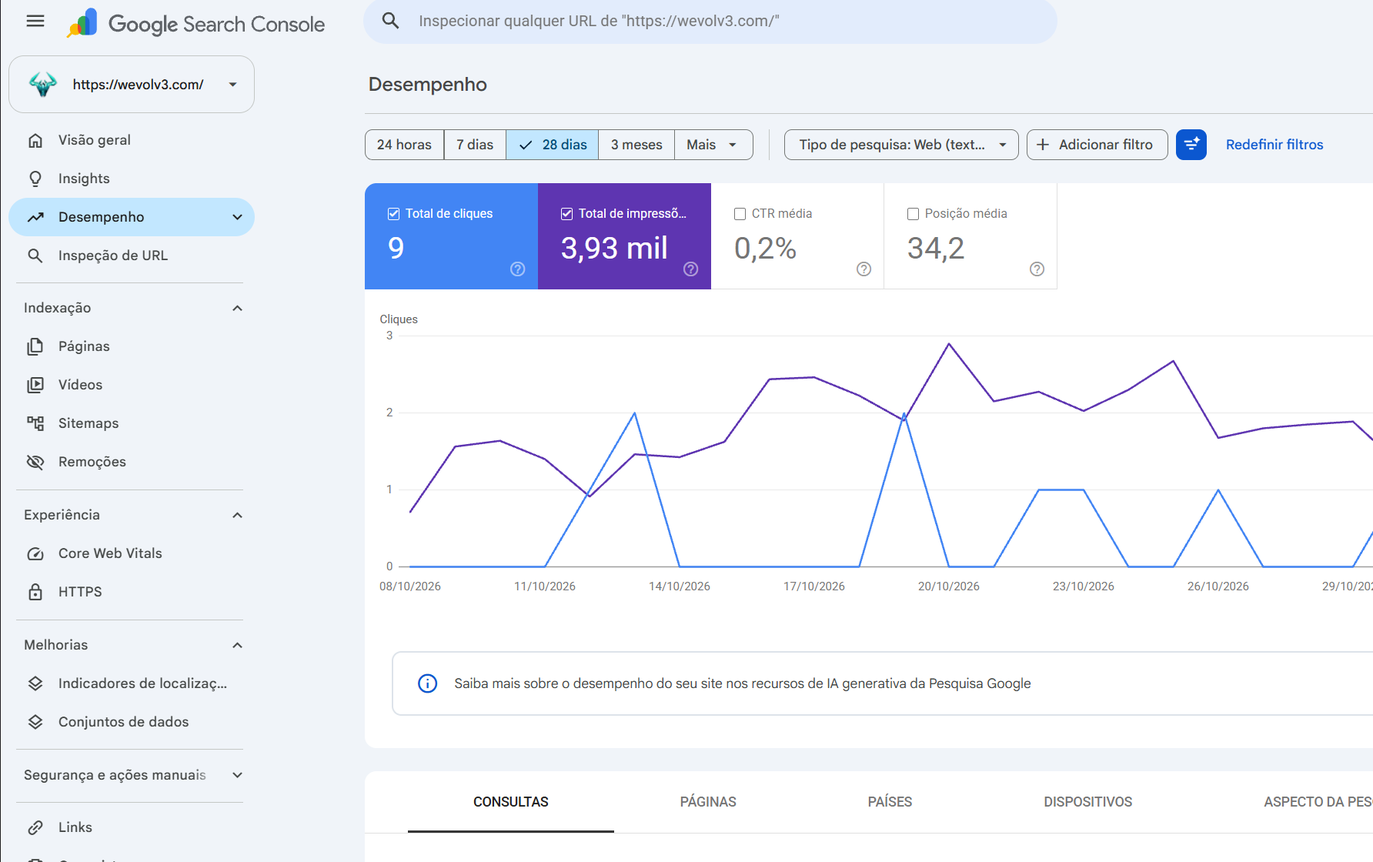
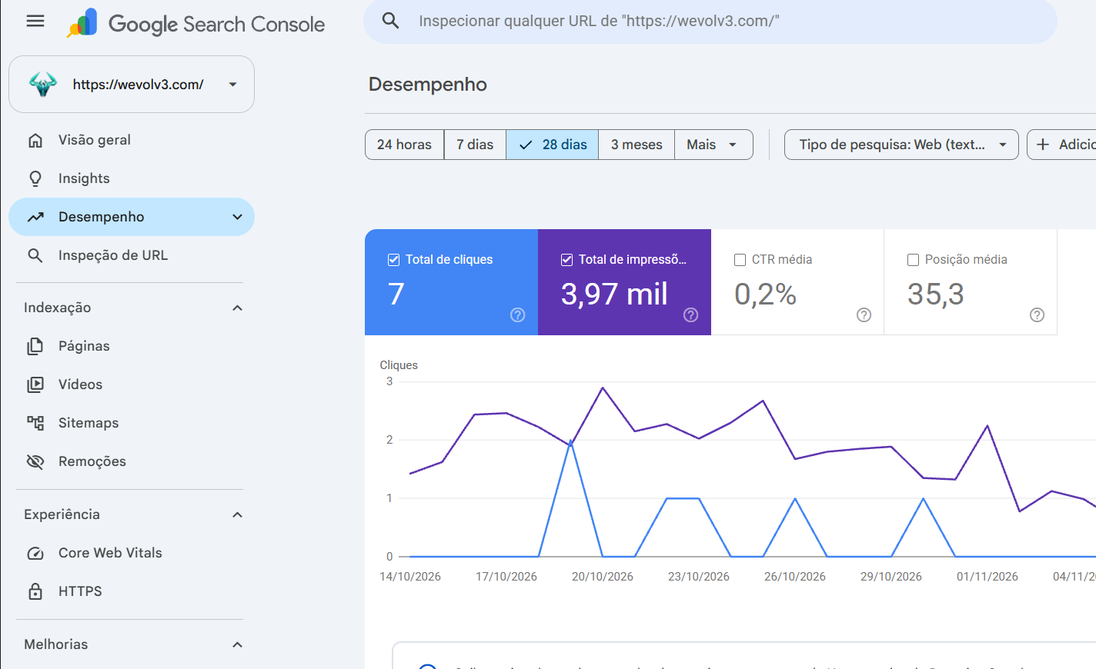
docs(seo): leitura de 12/11

diff --git a/docs/daily-report/raio-x-aquisicao.html b/docs/daily-report/raio-x-aquisicao.html
@@ -175,8 +175,9 @@
 <div class="wrap">
 
   <header>
-    <div class="eyebrow">Wevolv3 · 7 de novembro de 2026 · janela do Google 08/10 a 04/11 · as 5 telas de hoje</div>
+    <div class="eyebrow">Wevolv3 · 12 de novembro de 2026 · janela do Google 14/10 a 10/11 · as 5 telas de hoje</div>
     <h1>Raio-X de aquisição</h1>
+    <p class="lead"><b>12/11: a busca segue parada no total, e quem traz lead continua sendo o ChatGPT.</b> Depois de duas rodadas parciais, o Search Console voltou a ser lido por inteiro. Em 28 dias foram <b>7 cliques</b>, <b>3,97 mil aparições</b> e <b>posição média 35,3</b>. As buscas de decisão somam 380 aparições, 1 clique e posição 23,2, um pouco acima das 322 aparições de 04/11 (a contagem de hoje inclui buscas em francês e alemão sobre listagem em corretora, em que a Wevolv3 aparece em 1º lugar). Os sites que linkam seguem em 16, com 62 links. O índice tem 68 páginas dentro e 15 fora, com o relatório atualizado em 08/11. A página <code>/about</code>, que em 18/10 nem tinha sido rastreada, agora aparece na posição 6,1. No Analytics, sem os robôs, foram 211 sessões reais: o filtro de hoje tirou também Singapura, que mandava cerca de 6 sessões vazias por dia. Os leads seguem sendo 3 pessoas, duas vindas do ChatGPT e uma do acesso direto, e a busca orgânica tem 7 sessões e nenhum lead. O Bing e as três redes sociais seguem com zero clique. <b>Ações do dia, feitas e conferidas no ar:</b> o post novo <code>/blog/web3-kol-marketing</code>, publicado em 07/11, não recebia link de nenhuma página e estava em "Detectada, mas não indexada"; a página de serviço de KOL passou a apontar para ele, e a indexação foi pedida e aceita. A descrição da <code>/about</code>, que tinha 180 caracteres e cortava na busca, caiu para 157, e os títulos de compartilhamento foram alinhados.</p>
     <p class="lead"><b>07/11: a busca segue parada, mas o número de sites que linkam para a Wevolv3 subiu de 13 para 16.</b> Os três novos são sortlist.com e web3connect.com, onde a Wevolv3 tem perfil desde 28/09, e teapaw.org. É a primeira vez que esses dois perfis aparecem como link no Google. A janela do GSC andou um dia (08/10 a 04/11) e marca <b>9 cliques</b>, <b>3,93 mil aparições</b> e <b>posição média 34,2</b>, praticamente igual a ontem. As buscas de decisão ficaram em 37, com 322 aparições, 1 clique e posição 25,4. O índice segue em 70 páginas, com o relatório parado em 22/10. No Analytics, sem os robôs, foram 247 sessões em 28 dias e os leads continuam sendo 3 pessoas: duas pelo acesso direto e uma vinda do ChatGPT, que segue sendo o único canal com lead por sessão. O Bing mostrou pela primeira vez uma citação da Wevolv3 numa resposta do Copilot (relatório novo "AI Performance"). <b>Ação do dia:</b> nenhuma página forte tinha uma frase que pedisse link interno sem forçar, então a rodada preparou o perfil do TechBehemoths, que está com nota 47 ("Average") porque não tem review, tem só 3 cases e a descrição não nomeia os serviços. O rascunho com o parágrafo novo, dois cases e o pedido de review está em <code>docs/drafts/techbehemoths-perfil-2026-11-07.md</code> e espera o Rômulo aplicar.</p>
     <p class="lead"><b>06/11: a busca segue parada, e o Search Console voltou a ser lido.</b> A conta diablov2021 está de novo no Chrome da extensão. A janela do GSC andou um dia (07/10 a 03/11) e marca <b>9 cliques</b>, <b>3,95 mil aparições</b> (eram 3,98 mil) e <b>posição média 34,1</b> (era 33,9), em 266 buscas. As consultas de decisão também não se mexeram: 33 consultas, 316 aparições, 1 clique e posição 25,3. Os domínios que linkam seguem em 13, com 63 links. O índice tem 70 páginas dentro e 14 fora, mas o relatório de Páginas continua parado em 22/10, com 15 dias. O link interno de 22/10 deu certo: o post de custo de listagem foi de 90 aparições na posição 10,1 para <b>294 na posição 6,3</b>, com 1 clique, e é a página que mais subiu na quinzena. O Analytics mostra 243 sessões reais em 28 dias (o robô de Boston, com 12 sessões vazias por dia, segue fora da conta) e os mesmos 3 leads; o do ChatGPT segue sendo o único que não veio pelo Direct. O Bing está igual: 0 cliques, 22 aparições em 3 meses e 4 domínios. As 3 redes sociais seguem com zero clique na busca do Google. <b>Ação do dia, feita e conferida no ar:</b> o post sobre CRM para Web3 (<code>/blog/web-three-crm</code>, posição 19,2) não recebia link de nenhum outro post. O post de ferramentas de marketing, que é o de mais aparições do blog, passou a apontar para ele no trecho "targeting and segmentation". A indexação foi pedida e aceita para esse post e para o de atribuição, que tinha ficado pendente ontem.</p>
     <p class="lead"><b>05/11: leitura parcial. O Search Console não foi lido, e por isso não dá para dizer se a busca andou.</b> A conta diablov2021 não está mais logada no Chrome da extensão: o seletor mostra só vadevox, romulololico e criptovox, e o GSC responde "você não tem acesso". O plano B, que é a captura de janela pelo perfil "Profile 2", precisava de uma aprovação que ninguém podia dar nesta rodada automática. <b>As telas do Search Console e do Analytics abaixo são de 04/11, e a do Bing também.</b> O que foi lido mostra o mesmo quadro de ontem. O Analytics tem 238 sessões reais em 28 dias (eram 239) e os mesmos 3 leads; o do ChatGPT segue sendo o único que não veio pelo Direct. O Bing está igual: 0 cliques, 23 aparições em 3 meses, 4 domínios e 5 páginas que linkam. O PostHog viu 3 visitas em 04/11, uma delas vinda do LinkedIn. Não houve post novo em novembro e não há post órfão. <b>Ação do dia, feita e conferida no ar:</b> o post de ferramentas de atribuição (<code>/blog/web-three-attribution-tool</code>, posição 13,7 com 90 aparições na leitura de ontem) não recebia link de nenhum outro post. O post de ferramentas de marketing, que é a página com mais aparições do blog, passou a apontar para ele no trecho "the off-chain to on-chain attribution gap". O pedido de indexação ficou pendente, porque depende do mesmo login no Search Console. A reavaliação do link de 22/10, que vencia hoje, também depende do GSC e passa para a próxima rodada.</p>
@@ -573,7 +574,7 @@
     </div>
 
     <figure>
-      <img src="/_blob/a748d18df4bbd10063aeced96da5f29a" alt="Search Console, relatório Desempenho em 28 dias, com o placar de 6 cliques, 4,34 mil impressões, CTR 0,1% e posição 17,4">
+      <img src="/_blob/9b7a2d320e2f6d070ab94a1918ef3463" alt="Search Console, relatório Desempenho em 28 dias, com o placar de 6 cliques, 4,34 mil impressões, CTR 0,1% e posição 17,4">
       <figcaption><b>Onde olhar:</b> os quatro cartões no topo são o placar do período, e hoje
       marcam <b>8</b> cliques, <b>2,92 mil</b> impressões, CTR 0,3% e posição <b>18,9</b> (captura de 07/10; eram 3,12 mil e 18,3 em 06/10). No
       gráfico, a linha roxa (impressões) é a notícia ruim da semana: depois do pico de meados de setembro
@@ -660,7 +661,7 @@
     existe na busca.</p>
 
     <figure>
-      <img src="/_blob/26e3e5ceaaea5f593a3d2985bf5757b3" alt="Search Console, tela de indexação de páginas, mostrando 63 páginas indexadas e 18 não indexadas">
+      <img src="/_blob/108ece8b8d92c8cf3280f0af2129b837" alt="Search Console, tela de indexação de páginas, mostrando 63 páginas indexadas e 18 não indexadas">
       <figcaption><b>Onde olhar:</b> os dois cartões no topo, <b>18 não indexadas</b> (cinza) e
       <b>63 indexadas</b> (verde), e o gráfico de barras logo abaixo. Cada barra é um dia: a parte
       verde é o que está no índice, a cinza é o que ficou de fora. Repare no degrau do começo de setembro: a parte cinza encolhe de uma vez e fica baixa desde então. Captura de 7 de outubro: <b>63 dentro e 21 fora</b> (eram 18). Os 3 a mais batem com a limpeza de 06/10 (<code>/linktree/</code> em noindex, post da Cellframe em 301) e com posts novos ainda sem rastreio. <b>08/10</b> (recapturada): igual, 63 e 21, relatório atualizado em 03/10. <b>09/10</b> (recapturada): igual, 63 e 21; o relatório segue com data de 03/10 (6 dias sem atualizar).</figcaption>
@@ -691,7 +692,7 @@
     quem já tem reputação.</p>
 
     <figure>
-      <img src="/_blob/825b07d90975c37811fbc53afc23399f" alt="Search Console, relatório Links, com 51 links externos e 407 links internos">
+      <img src="/_blob/d42bf420ea455f9cb6f61e9948498c87" alt="Search Console, relatório Links, com 51 links externos e 407 links internos">
       <figcaption><b>Onde olhar:</b> o quadro <b>Principais sites com links</b>, dentro da coluna
       <b>Links externos</b> (total de 49 em 06/10). Atenção: esse quadro mostra <b>só os 5 primeiros</b> (goodfirms 27,
       dev.to 5, wekolnect 5, coinmarketcap 2, edverise 2), que somam 41 dos 49 links. A lista inteira, com os 13
@@ -804,7 +805,7 @@
     </ul>
 
     <figure>
-      <img src="/_blob/4d9468e79ac9921c8d9ae3fac1c320b3" alt="Google Analytics, relatório Aquisição de tráfego, sessões por canal nos últimos 28 dias">
+      <img src="/_blob/6ef09448c78b573cbbeb5c28a531f0f4" alt="Google Analytics, relatório Aquisição de tráfego, sessões por canal nos últimos 28 dias">
       <figcaption><b>Onde olhar:</b> o gráfico mostra cada canal como uma linha ao longo dos 28
       dias, e a tabela embaixo dá o placar: a tela mostra o número bruto, <b>254</b> sessões (02/09 a 29/09), com Direct em 186 (73,2%) e Unassigned em 13, porque inclui os dois dias de robô (28 e 29/09). Sem esses dias, pela API, são <b>189</b> sessões, Direct 137 (72,5%) e Unassigned 2, que é o número que vale. As colunas <b>Sessões engajadas</b> e <b>Taxa de
       engajamento</b> separam visita boa de visita que bate e sai. Captura de 6 de outubro: a tela mostra o bruto, com os dias de robô (28 e 29/09) e o pico de 01/10 vindo de Council Bluffs (data center do Google, 23 sessões Direct sem engajamento). Pela API, sem esses dias e sem cidades de data center, são <b>188</b> sessões (08/09 a 05/10), Direct 134 (71,3%), Organic Search 17 com <b>5 conversões</b>, a primeira vez que a busca orgânica converte. <b>07/10</b> (recapturada): mesma regra pela API, <b>204</b> sessões (09/09 a 06/10), Direct 143 (70,1%), Organic Search 17 (8,3%, 5 conversões), Organic Social 32 (15,7%), Unassigned 5 (2,5%), AI Assistant 3 sem conversão; bruto 328. <b>08/10</b> (recapturada): <b>201</b> sessões (10/09 a 07/10), Direct 144 (71,6%), Organic Social 29 (14,4%), Organic Search 17 (8,5%, 5 conversões), Referral 4, Unassigned 4 (2,0%), AI Assistant 3 sem conversão; bruto 331. <b>09/10</b> (recapturada): <b>186</b> sessões (11/09 a 08/10), Direct 132 (71,0%), Organic Social 30 (16,1%), Organic Search 14 (7,5%, 5 conversões), Referral 4, Unassigned 3 (1,6%), AI Assistant 3 sem conversão; bruto 255.</figcaption>
@@ -888,7 +889,7 @@
     diferença costuma dizer algo.</p>
 
     <figure>
-      <img src="/_blob/e0f7f998c1d592b5f8e01f6962c43c1b" alt="Bing Webmaster Tools, relatório Backlinks, com 3 domínios, 3 páginas e 3 âncoras">
+      <img src="/_blob/41d32bb1566bfe7d7a198737ce6b7ea8" alt="Bing Webmaster Tools, relatório Backlinks, com 3 domínios, 3 páginas e 3 âncoras">
       <figcaption><b>Onde olhar:</b> os três cartões no topo, domínios / páginas / âncoras, hoje
       em <b>4 / 4 / 3</b> (07/10), e a lista <b>Source domain</b> logo abaixo, com os sites que o Bing
       enxerga apontando para a Wevolv3: cbinsights, findglocal, x.com e, desde a leitura de 07/10, <b>linkedin.com</b> (o dev.to saiu em 19/09). No menu da
@@ -1412,7 +1413,10 @@
     // 05/11: GSC não lido (a conta diablov2021 saiu do Chrome da extensão e a captura de janela precisava de aprovação).
     ["05/11", null, null, null, null, null, 238, 4.20, 6.72],
     ["06/11", 3950,  9, 34.1, 70, 14, 243, 3.29, 6.17],
-    ["07/11", 3930,  9, 34.2, 70, 14, 247, 3.24, 6.48]
+    ["07/11", 3930,  9, 34.2, 70, 14, 247, 3.24, 6.48],
+    ["10/11", null, null, null, null, null, 250, 2.80, 9.20],
+    ["11/11", 3960,  9, 35.3, 68, 15, null, null, null],
+    ["12/11", 3970,  7, 35.3, 68, 15, 211, 3.32, 12.80]
   ];
 
   var COL = { impr:1, cliq:2, pos:3, idx:4, nidx:5, sess:6, search:7, social:8 };
@@ -1501,7 +1505,12 @@
     ["03/11", 17, 15],
     ["04/11", 3, 3],
     ["05/11", 3, 3],
-    ["06/11", 6, 6]
+    ["06/11", 5, 5],
+    ["07/11", 2, 2],
+    ["08/11", 7, 6],
+    ["09/11", 2, 2],
+    ["10/11", 6, 6],
+    ["11/11", 9, 9]
   ];
 
   function paint(){

diff --git a/docs/daily-report/raio-x-template.html b/docs/daily-report/raio-x-template.html
@@ -175,8 +175,9 @@
 <div class="wrap">
 
   <header>
-    <div class="eyebrow">Wevolv3 · 7 de novembro de 2026 · janela do Google 08/10 a 04/11 · as 5 telas de hoje</div>
+    <div class="eyebrow">Wevolv3 · 12 de novembro de 2026 · janela do Google 14/10 a 10/11 · as 5 telas de hoje</div>
     <h1>Raio-X de aquisição</h1>
+    <p class="lead"><b>12/11: a busca segue parada no total, e quem traz lead continua sendo o ChatGPT.</b> Depois de duas rodadas parciais, o Search Console voltou a ser lido por inteiro. Em 28 dias foram <b>7 cliques</b>, <b>3,97 mil aparições</b> e <b>posição média 35,3</b>. As buscas de decisão somam 380 aparições, 1 clique e posição 23,2, um pouco acima das 322 aparições de 04/11 (a contagem de hoje inclui buscas em francês e alemão sobre listagem em corretora, em que a Wevolv3 aparece em 1º lugar). Os sites que linkam seguem em 16, com 62 links. O índice tem 68 páginas dentro e 15 fora, com o relatório atualizado em 08/11. A página <code>/about</code>, que em 18/10 nem tinha sido rastreada, agora aparece na posição 6,1. No Analytics, sem os robôs, foram 211 sessões reais: o filtro de hoje tirou também Singapura, que mandava cerca de 6 sessões vazias por dia. Os leads seguem sendo 3 pessoas, duas vindas do ChatGPT e uma do acesso direto, e a busca orgânica tem 7 sessões e nenhum lead. O Bing e as três redes sociais seguem com zero clique. <b>Ações do dia, feitas e conferidas no ar:</b> o post novo <code>/blog/web3-kol-marketing</code>, publicado em 07/11, não recebia link de nenhuma página e estava em "Detectada, mas não indexada"; a página de serviço de KOL passou a apontar para ele, e a indexação foi pedida e aceita. A descrição da <code>/about</code>, que tinha 180 caracteres e cortava na busca, caiu para 157, e os títulos de compartilhamento foram alinhados.</p>
     <p class="lead"><b>07/11: a busca segue parada, mas o número de sites que linkam para a Wevolv3 subiu de 13 para 16.</b> Os três novos são sortlist.com e web3connect.com, onde a Wevolv3 tem perfil desde 28/09, e teapaw.org. É a primeira vez que esses dois perfis aparecem como link no Google. A janela do GSC andou um dia (08/10 a 04/11) e marca <b>9 cliques</b>, <b>3,93 mil aparições</b> e <b>posição média 34,2</b>, praticamente igual a ontem. As buscas de decisão ficaram em 37, com 322 aparições, 1 clique e posição 25,4. O índice segue em 70 páginas, com o relatório parado em 22/10. No Analytics, sem os robôs, foram 247 sessões em 28 dias e os leads continuam sendo 3 pessoas: duas pelo acesso direto e uma vinda do ChatGPT, que segue sendo o único canal com lead por sessão. O Bing mostrou pela primeira vez uma citação da Wevolv3 numa resposta do Copilot (relatório novo "AI Performance"). <b>Ação do dia:</b> nenhuma página forte tinha uma frase que pedisse link interno sem forçar, então a rodada preparou o perfil do TechBehemoths, que está com nota 47 ("Average") porque não tem review, tem só 3 cases e a descrição não nomeia os serviços. O rascunho com o parágrafo novo, dois cases e o pedido de review está em <code>docs/drafts/techbehemoths-perfil-2026-11-07.md</code> e espera o Rômulo aplicar.</p>
     <p class="lead"><b>06/11: a busca segue parada, e o Search Console voltou a ser lido.</b> A conta diablov2021 está de novo no Chrome da extensão. A janela do GSC andou um dia (07/10 a 03/11) e marca <b>9 cliques</b>, <b>3,95 mil aparições</b> (eram 3,98 mil) e <b>posição média 34,1</b> (era 33,9), em 266 buscas. As consultas de decisão também não se mexeram: 33 consultas, 316 aparições, 1 clique e posição 25,3. Os domínios que linkam seguem em 13, com 63 links. O índice tem 70 páginas dentro e 14 fora, mas o relatório de Páginas continua parado em 22/10, com 15 dias. O link interno de 22/10 deu certo: o post de custo de listagem foi de 90 aparições na posição 10,1 para <b>294 na posição 6,3</b>, com 1 clique, e é a página que mais subiu na quinzena. O Analytics mostra 243 sessões reais em 28 dias (o robô de Boston, com 12 sessões vazias por dia, segue fora da conta) e os mesmos 3 leads; o do ChatGPT segue sendo o único que não veio pelo Direct. O Bing está igual: 0 cliques, 22 aparições em 3 meses e 4 domínios. As 3 redes sociais seguem com zero clique na busca do Google. <b>Ação do dia, feita e conferida no ar:</b> o post sobre CRM para Web3 (<code>/blog/web-three-crm</code>, posição 19,2) não recebia link de nenhum outro post. O post de ferramentas de marketing, que é o de mais aparições do blog, passou a apontar para ele no trecho "targeting and segmentation". A indexação foi pedida e aceita para esse post e para o de atribuição, que tinha ficado pendente ontem.</p>
     <p class="lead"><b>05/11: leitura parcial. O Search Console não foi lido, e por isso não dá para dizer se a busca andou.</b> A conta diablov2021 não está mais logada no Chrome da extensão: o seletor mostra só vadevox, romulololico e criptovox, e o GSC responde "você não tem acesso". O plano B, que é a captura de janela pelo perfil "Profile 2", precisava de uma aprovação que ninguém podia dar nesta rodada automática. <b>As telas do Search Console e do Analytics abaixo são de 04/11, e a do Bing também.</b> O que foi lido mostra o mesmo quadro de ontem. O Analytics tem 238 sessões reais em 28 dias (eram 239) e os mesmos 3 leads; o do ChatGPT segue sendo o único que não veio pelo Direct. O Bing está igual: 0 cliques, 23 aparições em 3 meses, 4 domínios e 5 páginas que linkam. O PostHog viu 3 visitas em 04/11, uma delas vinda do LinkedIn. Não houve post novo em novembro e não há post órfão. <b>Ação do dia, feita e conferida no ar:</b> o post de ferramentas de atribuição (<code>/blog/web-three-attribution-tool</code>, posição 13,7 com 90 aparições na leitura de ontem) não recebia link de nenhum outro post. O post de ferramentas de marketing, que é a página com mais aparições do blog, passou a apontar para ele no trecho "the off-chain to on-chain attribution gap". O pedido de indexação ficou pendente, porque depende do mesmo login no Search Console. A reavaliação do link de 22/10, que vencia hoje, também depende do GSC e passa para a próxima rodada.</p>
@@ -1412,7 +1413,10 @@
     // 05/11: GSC não lido (a conta diablov2021 saiu do Chrome da extensão e a captura de janela precisava de aprovação).
     ["05/11", null, null, null, null, null, 238, 4.20, 6.72],
     ["06/11", 3950,  9, 34.1, 70, 14, 243, 3.29, 6.17],
-    ["07/11", 3930,  9, 34.2, 70, 14, 247, 3.24, 6.48]
+    ["07/11", 3930,  9, 34.2, 70, 14, 247, 3.24, 6.48],
+    ["10/11", null, null, null, null, null, 250, 2.80, 9.20],
+    ["11/11", 3960,  9, 35.3, 68, 15, null, null, null],
+    ["12/11", 3970,  7, 35.3, 68, 15, 211, 3.32, 12.80]
   ];
 
   var COL = { impr:1, cliq:2, pos:3, idx:4, nidx:5, sess:6, search:7, social:8 };
@@ -1501,7 +1505,12 @@
     ["03/11", 17, 15],
     ["04/11", 3, 3],
     ["05/11", 3, 3],
-    ["06/11", 6, 6]
+    ["06/11", 5, 5],
+    ["07/11", 2, 2],
+    ["08/11", 7, 6],
+    ["09/11", 2, 2],
+    ["10/11", 6, 6],
+    ["11/11", 9, 9]
   ];
 
   function paint(){

diff --git a/docs/SEO_DAILY_LOG.md b/docs/SEO_DAILY_LOG.md
@@ -811,3 +811,4 @@ enviadas em GIF.
 | 2026-11-07 | 9 | 3.930 | 0,2% | 34,2 | 70 | 14 | 247 | 84,62% | 6,48% | 3,24% | **Busca parada; links de fora subiram: 16 dominios (eram 13), com sortlist.com e web3connect.com (perfis de 28/09) e teapaw.org aparecendo pela 1a vez no GSC.** Sabado, sem paineis semanais nem Share of Answer. Extensao: Browser 1 `2707213e` (unico pareado), conta diablov2021 via `authuser=`, caiu em u/5. **KPI da semana:** Decisao 37 consultas / 322 impr. / 1 cliq. / pos. 25,4 (06/11: 33 / 316 / 1 / 25,3; 7 dias antes sem leitura); **Dominios que linkam 16** pelo "Mais", 62 links (eram 13 / 63): goodfirms 27, dev.to 11 (era 16), wekolnect 5, linkedin 3, edverise, hashnode.dev, medium, x.com 2; coinmarketcap, crunchbase, cryptodaily, fixnhour.com, sortlist.com, teapaw.org, web3.career, web3connect.com 1. **GSC (08/10-04/11):** 9 cliques, 3,93 mil impr., pos. 34,2, 267 consultas. Consultas: "token generation event" 169 (48,5), "token launch marketing" 111 (35,0), "whats tge" 109 (9,7, zero clique, em acompanhamento desde 03/11), "kol meaning crypto" 104 (26,6), "defi marketing strategy" 92 (43,2), "web3 quests marketing" 90 (39,3), "what is a kol in crypto" 85 (26,1), "web3 kol marketing" 79, "web3 go to market strategy" 77; unico clique "crypto exchange listing fee" 1/4 (17,8); "growth pod vs agency" 38 (3,4, aguarda decisao). Nenhum gatilho novo. **Paginas (28d):** galxe 2 / 154 / 8,8; home 2 / 71 / 6,6; KOL 1 / 651 / 29,2; listing-cost 1 / 309 / 6,4; attribution-tool 1 / 88 / 13,9; best-firms 1 / 60 / 12,6; /contact 1 / 12 / 5,6; web-three-marketing-tools 0 / 1.013 / 53,0; tge 0 / 507 / 31,7; growth-partner 0 / 134 / 17,5; /crypto-exchange-marketing 0 / 43 / 14,8; web-three-crm 0 / 24 / 19,2; kol-pricing-benchmark 0 / 23 / 13,6. **Indexacao 70/14**, "Ultima atualizacao: 22/10/2026" (16 dias, desatualizado). **Ritmo do blog:** 0 posts em novembro. **Orfaos: 0 / 0** (nenhum post nos ultimos 30 dias). **GA4 API (10/10-06/11), sem 20261013 e sem cidades de data center (lista de 03/11 + Boston): 247 sessoes**: Direct 209 (84,6%, engaj. 7,2%, 29s, 7 ev.), Organic Social 16 (6,5%, 31%), Referral 10 (4,0%, 20%), Organic Search 8 (3,2%, 75%, 235s, 2 ev.), Unassigned 3 (1,2%, engaj. 0), AI Assistant 1 (100%, 4 ev.). Boston segue 12 sessoes/dia (fora); 06/11 bruto teve Shenzhen e Zhongshan (Unassigned e Referral, engaj. 0, cara de robo, mantidos). **Leads (form, sem Sorocaba): 3 pessoas**, as mesmas: Direct 2 (12/10 e 19/10, home), AI Assistant 1 (02/11, /contact.html). Intencao sem form: Prayagraj 12/10 (Direct), Meguro 19/10 e Minato 21/10 (Organic Search, telegram_click), Indore 27/10 (Direct). Leads por sessao: IA 1/1, Direct 2/209 = 1%, busca 0/8, social 0/16. **IA paga, busca nao.** **Watch Unassigned OK** (1,2%; 2 sessoes em 06/11 e 1 em 03/11, robos chineses). Direct 84,6% vs baseline 74,3%: robos nao filtrados, nao confirma a hipotese. **Bing:** 0 cliques / 22 impr. (3 meses); backlinks 4 dominios / 5 paginas / 4 ancoras, igual; **novo: relatorio "AI Performance" (beta), 1 citacao em Copilot e parceiros em 3 meses (por volta de 21/10), sem consulta listada.** **Platform Properties:** Instagram 0, TikTok 0, X 0 (anteriormente 0). **PostHog filtrado:** 06/11 6 pv / 6 sessoes (Morganton e Atlanta via accounts.google.com, Singapura, Xangai, 2 sem cidade); 07/11 ate agora 2 pv. Nenhum dominio novo da coluna Medir no PostHog/GA4. **ACOES_DE_LINK lido:** Coinmonks (20/10) e MarketerHire (21/10) seguem com o Romulo; growth-partner aguarda decisao (arquivar); 03/11 a 06/11 em acompanhamento. **Acao do dia (4c-5):** fila 4c-1 vazia e 4c-4 sem frase natural nas paginas fortes (galxe, listing-cost, tge, KOL e home conferidas para best-firms, kol-pricing-benchmark e kol-roi-calculator), entao a rodada preparou o perfil do TechBehemoths: EXO Score 47 "Average" (Reviews 0, Portfolio 46, Description 55). Rascunho `docs/drafts/techbehemoths-perfil-2026-11-07.md` (paragrafo de servicos, 2 cases do Sanity, pedido de review, foco Blockchain), nada enviado. **Recomendacao:** o Romulo aplica o perfil do TechBehemoths e manda o pedido de review a 2 clientes; segue pendente a decisao do gatilho growth-partner. **Telas:** as 5 recapturadas hoje pela captura de janela (tela 5 com a faixa de favoritos cortada); Raio-X republicado com paragrafo de 07/11, SERIE (07/11) e SERIE_PH ate 06/11. |
 | 2026-11-10 | - | - | - | - | - | - | 249 | 83,53% | 9,23% | 2,81% | **Rodada parcial, so API (GA4 + PostHog): GSC, Bing e Platform Properties NAO lidos (sem navegador nesta execucao automatica; plano B de captura nao rodado). Terca, sem paineis semanais nem Share of Answer.** **GA4 API (13/10-09/11), sem 20261013 e sem cidades de data center (lista de 03/11 + Boston, Council Bluffs, Glenview): 250 sessoes**: Direct 208 (83,2%, engaj. 7,7%, 23s, 4 ev.), Organic Social 23 (9,2%, 30%), Referral 9, Organic Search 7 (2,8%, 71%, 263s, 2 ev.), AI Assistant 2 (100%, 6 ev.), Unassigned 1 (0,4%). **Leads (form, sem Sorocaba, 28d): 3 pessoas = AI Assistant 2 + Direct 1** (sobe de 1 para 2 em IA vs 06/11: o lead de 02/11 e mais um). **Leads por sessao: IA 2/2, Direct 1/208, busca 0/7. IA paga, busca nao.** Watch Unassigned OK (0,4%). Direct 83,2% vs baseline 74,3%: robos nao filtrados, nao confirma hipotese. **PostHog filtrado:** 05/11 3 pv, 06/11 6, 07/11 2, 08/11 7, 09/11 2, 10/11 2 ate agora; nenhuma varredura. Ritmo do blog e orfaos nao checados. ACOES_DE_LINK lido: nada novo; Coinmonks e MarketerHire seguem com o Romulo. Raio-X nao republicado (sem telas novas). |
 | 2026-11-11 | 9 | 3.960 | 0,2% | 35,3 | 68 | 15 | 476 bruto | - | - | - | **Rodada parcial: a extensao do Chrome nao leu o GSC (a pagina redireciona e o get_page_text bloqueia); usado o plano B de captura (5 telas). Os PNGs saem cortados no topo, entao so leio os totais: GSC 28d 9 cliques / 3,96 mil impr. / pos. 35,3; indexacao 68 indexadas / 15 nao (era 70/14); links externos 62 (iguais). Consultas, Bing, Platform Properties, paineis NAO lidos hoje.** GA4 API (14/10-10/11, so excluido 20261013): 476 sessoes brutas, Direct 476 por causa de robo (01/11 = 78 sessoes no dia; Boston 12/dia, engaj. 0, todos os dias de 04 a 09/11). Sem filtro de cidade completo nao da numero limpo; nao comparar com 249 de 10/11. Organic Social 24, Referral 9, Organic Search 7 (71%, 263s, 2 ev.), AI Assistant 2 (100%, 6 ev.), Unassigned 1. **Leads (form, sem Sorocaba): 3 pessoas = AI Assistant 2 + Direct 1. IA paga, busca nao.** Watch Unassigned OK. **Acao 4c: nao executada hoje (Sanity/Studio exige o Chrome da extensao, indisponivel).** Raio-X nao republicado (telas cortadas). |
+| 2026-11-12 | 7 | 3.970 | 0,2% | 35,3 | 68 | 15 | 211 | 79,15% | 12,80% | 3,32% | **Rodada completa (extensao de volta: Chrome local `2707213e`, conta diablov2021 conferida no seletor, GSC em u/5).** **KPI: Decisao 47 consultas / 380 impr. / 1 cliq. / pos. 23,2** (04/11: 35 / 322 / 1 / 25,3; regex de hoje inclui "agency/agencies" e buscas em frances e alemao sobre listagem em corretora, pos. 1,0, entao a alta e em parte metodo). **Dominios que linkam: 16** pelo "Mais", 62 links (iguais a 07/11). GSC 28d (14/10-10/11): 7 cliques / 3,97 mil / pos. 35,3, 291 consultas; topo: "token generation event" 186 (46,4), "token launch marketing" 112 (35,5), "whats tge" 96 (9,4, em acompanhamento ate 17/11), "web3 quests marketing" 90, "defi marketing strategy" 90, "web3 kol marketing" 81 (63,5), "what is a kol in crypto" 80 (29,0); unico clique de consulta visivel: "crypto exchange listing fee" (14,5). Gatilho pos<=10/50+/0 cliq: so "whats tge" (ja tratado). **Paginas:** listing-cost 2 / 340 / 5,8; KOL 1 / 535 / 32,2; galxe 1 / 155 / 8,3; attribution-tool 1 / 92 / 12,7; best-firms 1 / 60 / 11,4; /contact 1 / 14 / 5,4; web-three-marketing-tools 0 / 1.089 / 55,1; tge 0 / 514 / 32,4; home 0 / 73 / 6,2 (so marca com erro de digitacao: "wevolv" 10,2); **/about 0 / 34 / 6,1 (nova no relatorio: a acao de 18/10 deu certo, a pagina foi indexada)**. **Indexacao 68/15** (5 motivos), relatorio de Paginas atualizado em 08/11 (4 dias). **Bing:** 3M 0 cliques / 21 impr.; backlinks 1 dominio (linkedin); AI Performance 1 citacao em 3M. **Platform Properties:** IG 0, TikTok 0, X 0 cliques (X deu 500 na 1a tentativa, leu na 2a). **GA4 API (15/10-11/11), sem cidades de data center (lista de 10/11 + Singapore, ~6 sessoes vazias/dia, 68 no total): 211 sessoes**: Direct 167 (79,1%, engaj. 10,2%), Organic Social 27 (12,8%), Organic Search 7 (3,3%, 86%), Referral 6, AI Assistant 2 (100%), Unassigned 2 (0,9%). Bruto com Singapore: 283. **Leads (form, sem Sorocaba): 3 pessoas = AI Assistant 2 (02/11 e 08/11, /contact.html) + Direct 1 (19/10, /)**. **Intencao:** telegram_click de Organic Social em 11/11 (/contact, novo), Direct Indore 27/10, Organic Search 19/10 e 21/10 (Toquio). Leads por sessao: IA 2/2, Direct 1/167, busca 0/7. Watch Unassigned OK. Direct 79,1% vs baseline 74,3%: robos ainda nao todos filtrados (Itapeva, Shanghai, Xinxiang, (not set) com engaj. 0). **PostHog filtrado:** 06/11 5, 07/11 2, 08/11 7, 09/11 2, 10/11 6, 11/11 9, 12/11 3 ate agora. **Ritmo do blog:** 1 post em novembro (teto 4). **Orfaos: 1 encontrado / 1 corrigido** (/crypto-kol-marketing -> /blog/web3-kol-marketing, commit 2965151; post estava em "Detectada, mas nao indexada"; indexacao pedida e aceita). **Acao 4c-1:** /about (pos. 6,1, 34 impr., 0 clique) description de 180 para 157 caracteres e og/twitter:title alinhados ao title (commit ea19fcb), conferido ao vivo. ACOES_DE_LINK lido: Coinmonks, MarketerHire, TechBehemoths e growth-partner seguem com o Romulo. Telas: as 5 recapturadas hoje e conferidas por Read; Raio-X republicado (versao 80), 5 assets antigos apagados. |

diff --git a/docs/ACOES_DE_LINK.md b/docs/ACOES_DE_LINK.md
@@ -64,3 +64,5 @@ que medir. Quem executar uma ação nova acrescenta uma linha aqui no mesmo dia.
 | 07/11 | TechBehemoths: completar o perfil (rotina, item 4c-5; fila de link interno sem frase natural nas paginas fortes) | Perfil publico lido: EXO Score 47 "Average" (Reviews 0, Portfolio 46, Description 55, Awards 0). Rascunho em `docs/drafts/techbehemoths-perfil-2026-11-07.md`: paragrafo de servicos e ferramentas para a descricao, 2 cases novos do Sanity (meme token 2025, token de economia de criador 2024), pedido de review a cliente, ajustes de foco (Blockchain no lugar de Financial services). Nada alterado no site deles | **pendente com o Romulo** (aplicar logado como info@; mandar o pedido de review) | EXO Score; techbehemoths.com no GSC Links, PostHog e GA4 |
 | 07/11 | GSC Links: 3 dominios novos | sortlist.com, web3connect.com (perfis de 28/09) e teapaw.org entraram na lista; dominios 13 -> 16 (dev.to 16 -> 11 links) | registrado | — |
 | 04/11 | Reavaliacao do lote de 11/10 | galxe 2 cliques (9,1 / 144), attribution-tool 1 clique (13,7 / 90), web-three-marketing-tools diluida (52,8 / 1.004), tge em nova variacao desde 03/11, growth-partner zero clique (18,4 / 140; "growth pod vs agency" pos. 3,3 sem clique ha 24 dias, Wevolv3 fonte do resumo de IA) | lote fechado; **growth-partner: decisao pendente com o Romulo (arquivar, recomendado, ou agir com pagina nova)**; fora do parecer diario ate decidir | GSC: "growth pod vs agency" |
+| 12/11 | Post orfao web3-kol-marketing (rotina, item 1b) | Publicado em 07/11 e sem nenhum link de pagina ou post; GSC: "Detectada, mas nao indexada". `/crypto-kol-marketing` ganhou o link "how a KOL campaign runs, tier by tier" na frase "New to the term?..." (commit 2965151), conferido ao vivo. Indexacao pedida e aceita | **em acompanhamento desde 12/11**; reavaliar em 26/11 | GSC: estado de indexacao e impressoes de /blog/web3-kol-marketing; "web3 kol marketing" (63,5) |
+| 12/11 | Description e titulos sociais da /about (rotina, item 4c-1) | /about saiu de "nunca rastreada" (18/10) para pos. 6,1 com 34 impr. e 0 clique (so buscas de marca com erro de digitacao). Description de 180 para 157 caracteres, og:title e twitter:title iguais ao title (commit ea19fcb), conferido ao vivo. Pagina ja indexada, sem pedido | **em acompanhamento desde 12/11**; reavaliar em 26/11 | GSC por pagina: CTR e cliques de /about |
